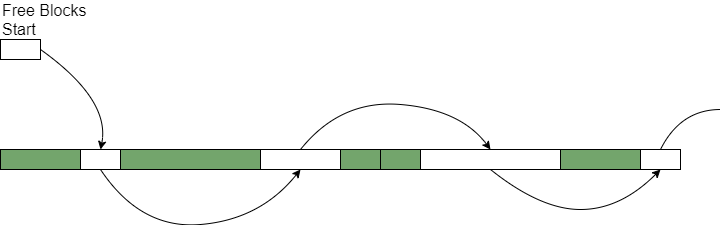
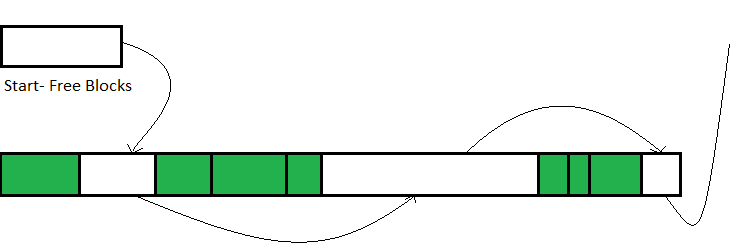
2nd post - fix images

diff --git a/content/posts/dynamic_memory_cost_allocation_speed.md b/content/posts/dynamic_memory_cost_allocation_speed.md
@@ -77,7 +77,7 @@ Given the following scenario, the heap consists of 5 chunks. The program allocat
     alt="">
   <figcaption>
     <i>
-      Memory Fragmentation Illustration. Each block is 16 bytes in size. Green blocks are marked as allocated, and white blocks are available.
+      Memory Fragmentation Illustration. Each block is 16 bytes in size. Green blocks are marked as allocated, and red blocks are available.
     </i>
   </figcaption>
 </figure>
